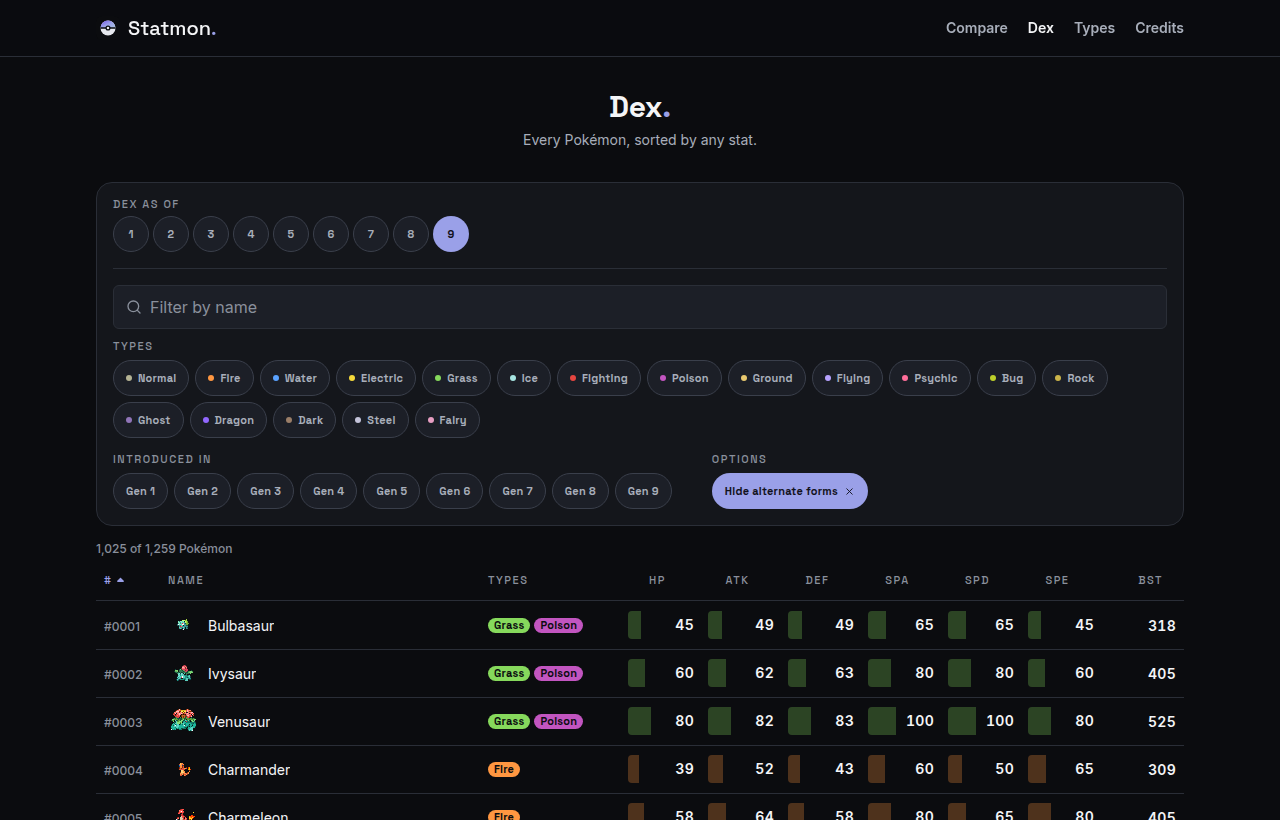
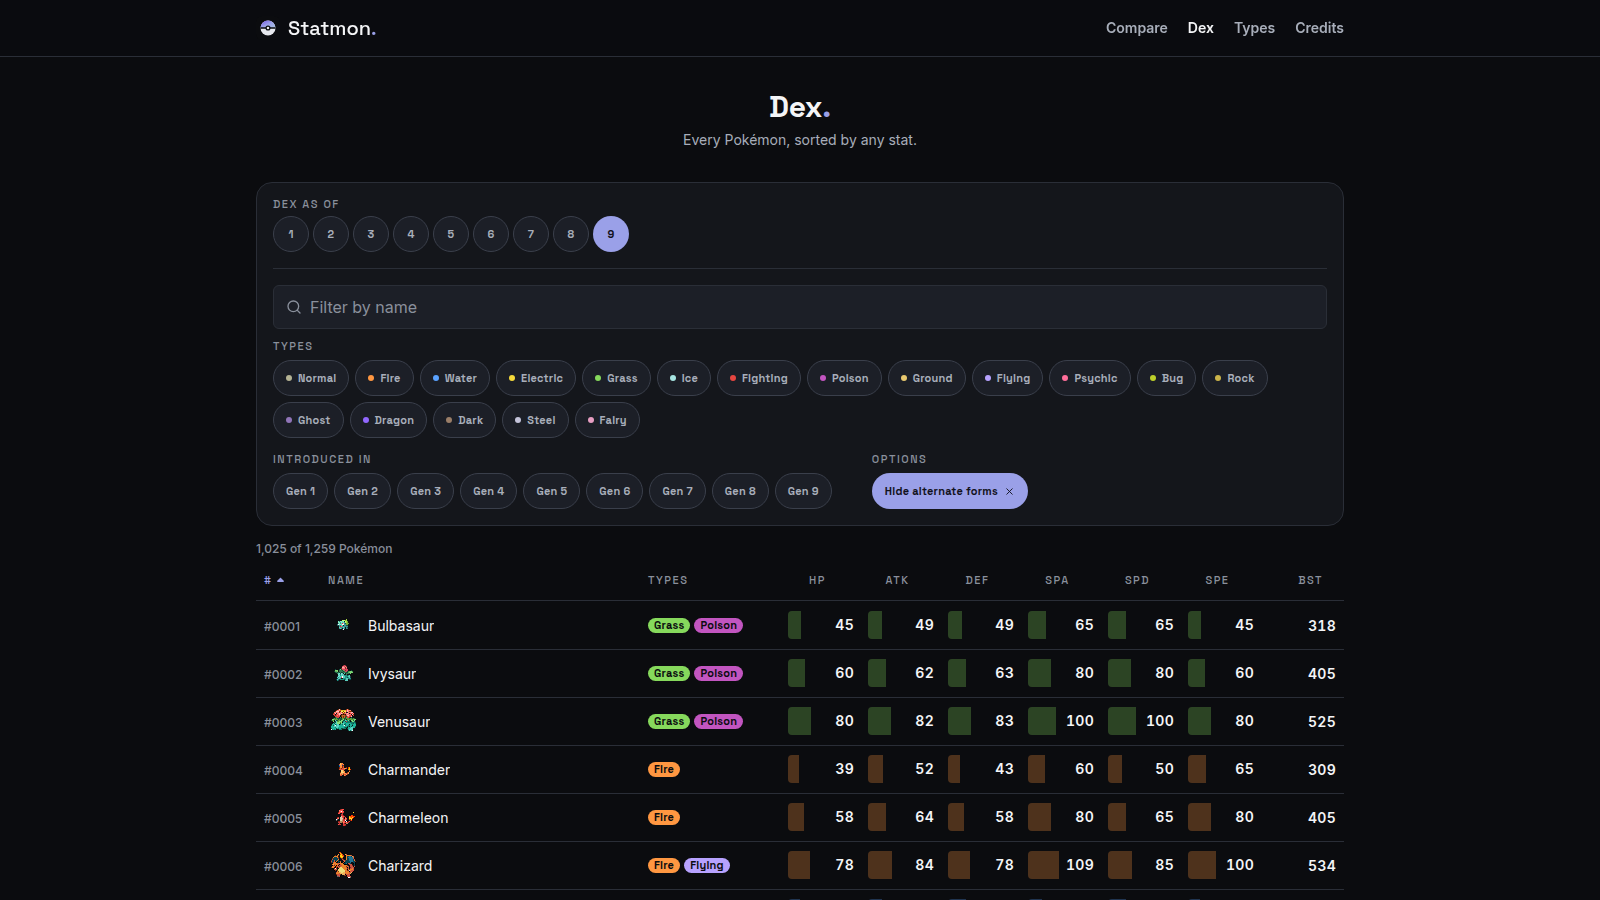
Fix the social preview, and make the screenshots 16:9
docs/preview.png was the wrong frame. It shipped as the 1200x630 Open
Graph frame sitting inside a 1280x640 window — 80px of dead space on the
right, wordmark 40px left of centre.

The cause was the automation added last commit. Isolating a frame for
capture pruned document.querySelectorAll("section"), and the wrappers in
og-image.html are divs. It matched nothing, removed nothing, and both
captures photographed whichever frame came first in the DOM — the OG
one. So og-image.png was right by accident and preview.png was not.

Nothing caught it because the page still renders perfectly in a browser:
the bug lived entirely in the isolation step, which only runs during a
capture. The manual instructions it replaced had always produced the
right image. Replacing a manual step with a script moves the error, it
does not remove it.

Fixed on both sides. The script hoists the target frame to be the body's
only child instead of pruning wrappers, so it cannot depend on markup
structure. And shoot:docs now measures what it produced: it reads the
PNG with sharp, finds the horizontal centre of everything brighter than
the background, and fails if either social frame is more than 2px off.
Both now report "centred" and measure -0.5px. A wrong social image is
worse than a missing one — it is the first thing anyone sees, and
nothing about it looks broken.

The three app screenshots are now 16:9, all at 1600x900. They had been
[…]

diff --git a/docs/og-image.html b/docs/og-image.html
@@ -163,19 +163,30 @@
       </div>
     </div>
     <script>
-      // `?only=og` or `?only=gh` strips everything except that one frame and
-      // removes the body's padding, so a headless window sized to the frame
-      // captures it exactly. scripts/shoot-docs.mjs uses this; without it the
-      // only way to get these images was a manual "Capture node screenshot",
-      // which is why they went stale (D-064).
+      // `?only=og` or `?only=gh` reduces the page to that one frame, so a
+      // headless window sized to the frame captures it exactly.
+      // scripts/shoot-docs.mjs uses this; without it the only way to get these
+      // images was a manual "Capture node screenshot", which is why they went
+      // stale (D-064).
+      //
+      // It hoists the frame to be the body's only child rather than pruning
+      // wrappers, because the first version pruned `section` elements and the
+      // wrappers here are `div`s — so it matched nothing, removed nothing, and
+      // both captures silently photographed whichever frame came first in the
+      // DOM. That shipped a `preview.png` that was the 1200px OG frame sitting
+      // in a 1280px window, with the wordmark 40px left of centre. Targeting the
+      // frame itself cannot go wrong that way. (D-066)
       const only = new URLSearchParams(location.search).get("only");
       if (only) {
-        document.body.style.padding = "0";
-        document.body.style.gap = "0";
-        document.body.style.background = "#0b0c0f";
-        for (const el of document.querySelectorAll(".note, .cap")) el.remove();
-        for (const sec of document.querySelectorAll("section")) {
-          if (!sec.querySelector(`.frame.${only}`)) sec.remove();
+        const frame = document.querySelector(".frame." + only);
+        if (!frame) {
+          // Loud, not silent: a wrong social image is worse than a missing one.
+          document.title = "SHOOT_ERROR: no .frame." + only;
+          document.body.replaceChildren();
+        } else {
+          document.body.replaceChildren(frame);
+          document.body.style.cssText =
+            "margin:0;padding:0;background:#0b0c0f;display:block";
         }
       }
     </script>

diff --git a/docs/03_decisions.md b/docs/03_decisions.md
@@ -6,6 +6,36 @@ _A dated log of what's decided and **why**. The highest-value doc for a solo dev
 
 ## 2026-09-04 — Session 15 (the consistency, accessibility & responsive sweep)
 
+<a id="d-066"></a>
+
+### D-066 · The social preview was the wrong frame — **Firm** _(fixes [D-064](#d-064))_
+
+**What was wrong.** `docs/preview.png` shipped as the **1200×630 Open Graph
+frame sitting inside a 1280×640 window**, leaving 80px of dead space on the
+right and the wordmark 40px left of centre.
+
+**Why it happened.** [D-064](#d-064) added `?only=og` / `?only=gh` to
+`docs/og-image.html` so the frames could be captured by a script instead of by
+hand. That code pruned `document.querySelectorAll("section")` — and the wrappers
+in that file are `div`s. It matched nothing, removed nothing, and **both**
+captures photographed whichever frame came first in the DOM, which is the OG one.
+`og-image.png` was therefore correct by accident, and `preview.png` was not.
+
+Nothing caught it because the page still rendered perfectly in a browser: the
+bug lived entirely in the isolation step, which only runs during a capture. The
+generator's own instructions ("right-click the frame → Capture node screenshot")
+had always produced the right image, so automating it is what introduced the
+defect — a fair reminder that replacing a manual step with a script moves the
+error, it does not remove it.
+
+**The fix, both halves.** The script now hoists the target frame to be the body's
+only child rather than pruning wrappers, so it cannot depend on markup structure;
+and `shoot:docs` **measures** the result. It reads the rendered PNG with `sharp`
+(already a devDependency), finds the horizontal centre of everything brighter
+than the background, and fails if either social frame is more than 2px off
+centre. A wrong social image is worse than a missing one, because it is the
+first thing anyone sees and nothing about it looks broken.
+
 <a id="d-065"></a>
 
 ### D-065 · Three accessibility defects the docs had not caught — **Firm**
@@ -73,6 +103,17 @@ works with no network.
 
 The README gained one image per tool for the same reason the copy changed
 ([D-063](#d-063)): it describes three tools and used to show one.
+
+**The three app shots are 16:9, all at 1600×900.** They were first sized per
+shot to frame their subject — 1280×1000 and 1280×820 — which made the set look
+squarish and mismatched sitting next to each other in the README. One ratio and
+one size reads as a set. 1600 rather than 1280 because 720px of page is not
+enough for two of the three: it cuts the hero board's speed banner in half, and
+it leaves the dex showing two rows of a table whose entire point is that it holds
+1,259. The two social frames are deliberately **not** 16:9 — 1280×640 is the 2:1
+GitHub requires and 1200×630 is the Open Graph standard. Those are platform
+sizes, not aesthetic ones. See [D-066](#d-066) for what went wrong with one of
+them.
 
 <a id="d-063"></a>
 

diff --git a/docs/05_roadmap.md b/docs/05_roadmap.md
@@ -42,8 +42,12 @@ over consistency, accessibility, responsiveness and the writing.
   bolted on; the type chart appeared in none of them. Plus `robots.txt`,
   `sitemap.xml`, and screenshots that are now **generated** rather than taken by
   hand — `docs/preview.png` was still the launch image, from before two of the
-  three tools existed. ([D-063](03_decisions.md#d-063),
-  [D-064](03_decisions.md#d-064))
+  three tools existed. Scripting that capture then shipped a **wrong** social
+  preview (the 1200px OG frame inside a 1280px window, wordmark 40px off centre),
+  which is now fixed and, more usefully, **asserted**: `shoot:docs` measures the
+  rendered PNG and fails if either social frame is off centre.
+  ([D-063](03_decisions.md#d-063), [D-064](03_decisions.md#d-064),
+  [D-066](03_decisions.md#d-066))
 - **CI**: GitHub Actions runs every check on push and PR.
 
 Vitest is at **213 tests**.
